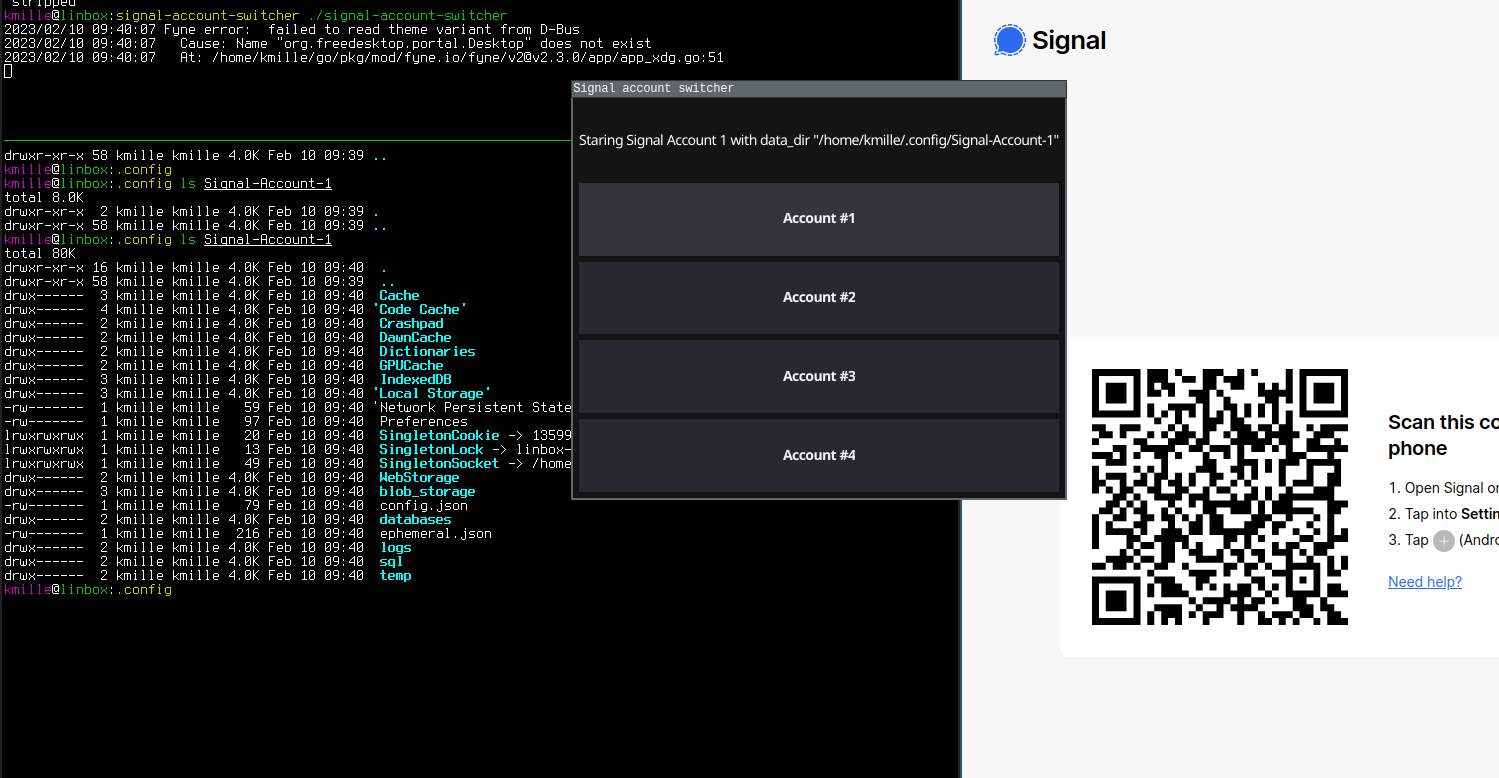
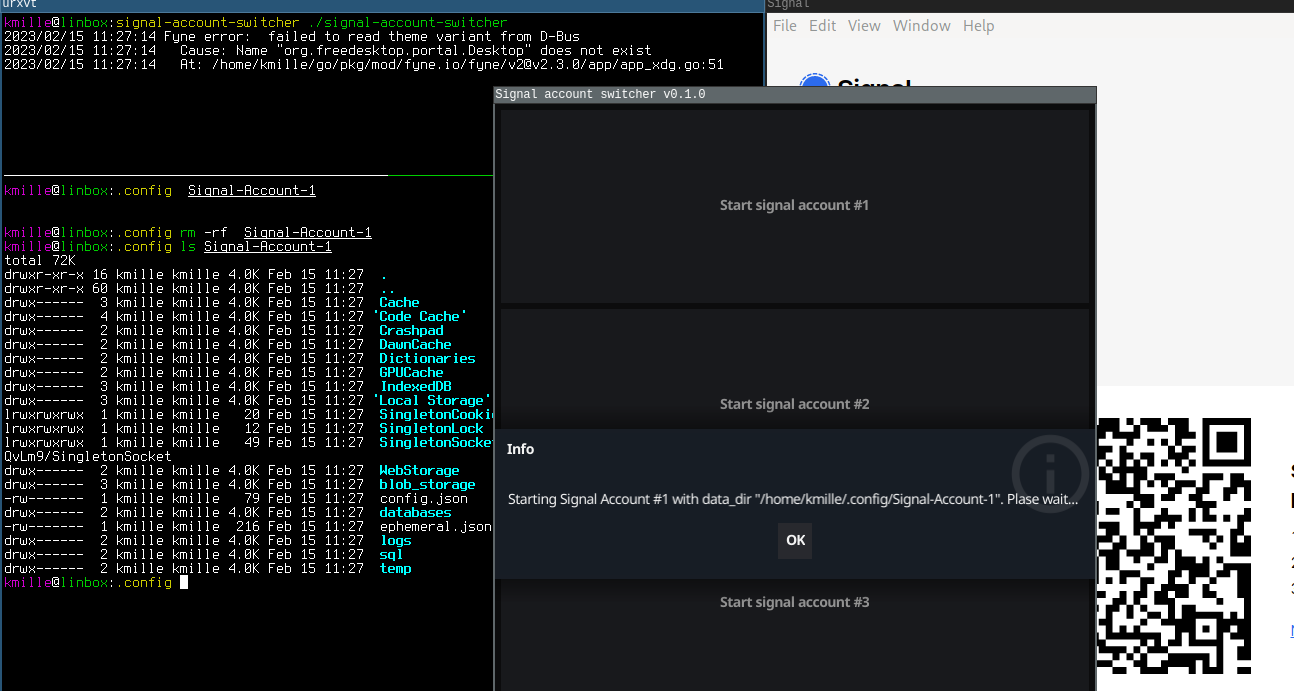
Update docs

diff --git a/README.md b/README.md
@@ -1,9 +1,9 @@
 # signal-account-switcher
-A quick and dirty tool for all major plattforms (linux, mac, windows) to run four additional signal-desktop accounts. When you click on 'Account #1'
-1) A data_dir is created in `$working_dir/Signal-Account-1`
-2) signal-desktop is started with `--user-data-dir=$working_dir/Signal-Account-1`
+A simple tool that allows you to run multiple instances of signal-desktop (four additional accounts) on you Laptop. There are ready-to-use binaries for all major platforms (Linux, Mac, Windows). Start the `signal-account-switcher`. When you click on 'Start signal account #1'
+1) a `data_dir` is created in `$working_dir/Signal-Account-1`
+2) `signal-desktop` is executed with the parameter `--user-data-dir=$working_dir/Signal-Account-1`
 
-Depending on your OS $working_dir is `~/.config`, `$HOME/Library/Application` or `%AppData%`. If you want to remove all data from an account, just delete the directory in $working_dir.
+Depending on your OS, $working_dir is `~/.config`, `$HOME/Library/Application` or `%AppData%`. If you want to remove all data from an account, just delete the directory in $working_dir.
 
 # Screenshot
 
@@ -18,36 +18,34 @@ kmille@linbox:signal-account-switcher file signal-account-switcher
 signal-account-switcher: ELF 64-bit LSB executable, x86-64, version 1 (SYSV), dynamically linked, interpreter /lib64/ld-linux-x86-64.so.2, BuildID[sha1]=c60867bc53ad2ff8f56622bf24c85842f2cec213, for GNU/Linux 4.4.0, stripped
 ```
 
-To cross-compile it for Windows and Mac, use fyne-cross(needs Docker)
+To cross-compile it for Windows and Mac, use `fyne-cross` (needs Docker)
 
 ```bash
 go install github.com/fyne-io/fyne-cross@latest
 ls $GOPATH/bin/fyne-cross
 ```
-Build it for Windows
+Cross-compilation for Windows:  
 ```bash
-kmille@linbox:signal-account-switcher sudo $GOPATH/bin/fyne-cross windows -name signal-account-switcher
-[sudo] password for kmille:
+kmille@linbox:signal-account-switcher sudo $GOPATH/bin/fyne-cross windows -name signal-account-switcher.exe
 [i] Target: windows/amd64
 [i] Cleaning target directories...
+[✓] "bin" dir cleaned: /home/kmille/projects/signal-account-switcher/fyne-cross/bin/windows-amd64
 [✓] "dist" dir cleaned: /home/kmille/projects/signal-account-switcher/fyne-cross/dist/windows-amd64
 [✓] "temp" dir cleaned: /home/kmille/projects/signal-account-switcher/fyne-cross/tmp/windows-amd64
-[✓] "bin" dir cleaned: /home/kmille/projects/signal-account-switcher/fyne-cross/bin/windows-amd64
 [i] Checking for go.mod: /home/kmille/projects/signal-account-switcher/go.mod
 [✓] go.mod found
 [i] Building binary...
-[✓] Binary: /home/kmille/projects/signal-account-switcher/fyne-cross/bin/windows-amd64/signal-account-switcher
+[✓] Binary: /home/kmille/projects/signal-account-switcher/fyne-cross/bin/windows-amd64/signal-account-switcher.exe
 [i] Packaging app...
-[✓] Package: /home/kmille/projects/signal-account-switcher/fyne-cross/dist/windows-amd64/signal-account-switcher.zip
-kmille@linbox:signal-account-switcher file /home/kmille/projects/signal-account-switcher/fyne-cross/bin/windows-amd64/signal-account-switcher
-/home/kmille/projects/signal-account-switcher/fyne-cross/bin/windows-amd64/signal-account-switcher: PE32+ executable (GUI) x86-64 (stripped to external PDB), for MS Windows, 12 sectionsbash
+[✓] Package: /home/kmille/projects/signal-account-switcher/fyne-cross/dist/windows-amd64/signal-account-switcher.exe.zip
+kmille@linbox:signal-account-switcher file /home/kmille/projects/signal-account-switcher/fyne-cross/bin/windows-amd64/signal-account-switcher.exe
+/home/kmille/projects/signal-account-switcher/fyne-cross/bin/windows-amd64/signal-account-switcher.exe: PE32+ executable (GUI) x86-64 (stripped to external PDB), for MS Windows, 12 sections
+kmille@linbox:signal-account-switcher
 ```
+Cross-compilation for Mac:  
+Hmpf, the [docs](https://github.com/fyne-io/fyne-cross#build-the-docker-image-for-osxdarwinapple-cross-compiling) say you need the "Command Line Tools for Xcode". I can't get them without an account...
 
-Build it for Mac:  
-TODO: needs the "Command Line Tools for Xcode". I can't get them... Check the [docs](https://github.com/fyne-io/fyne-cross#build-the-docker-image-for-osxdarwinapple-cross-compiling).
-
-#    Cleanup
-
+# Build Cleanup
 ```bash
 sudo docker rmi fyneio/fyne-cross:1.3-windows
 sudo docker rmi fyneio/fyne-cross:1.3-base-llvm
